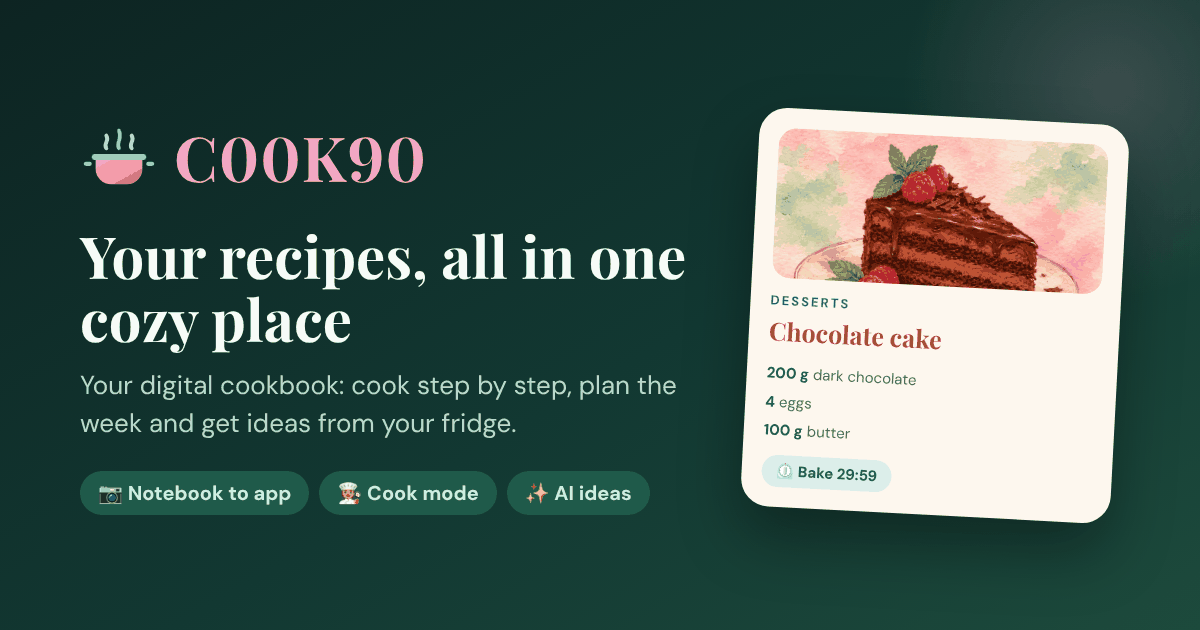
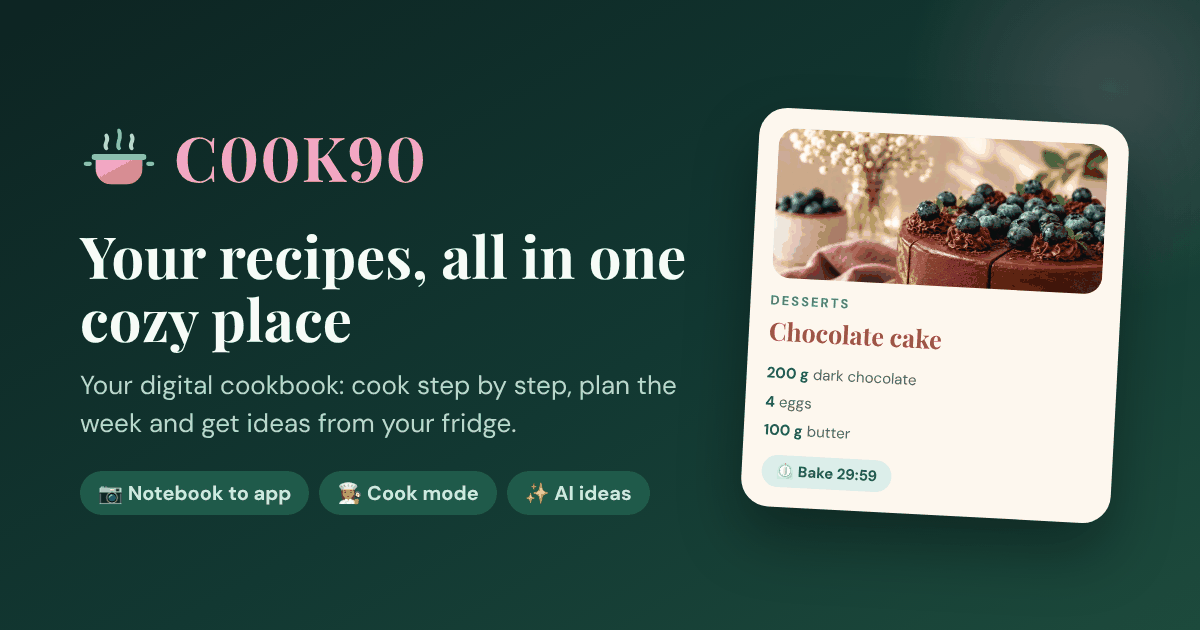
Example recipe: blueberry cake photo, also for cooks who already have it

Changed region(s): [[0.6475, 0.181, 0.925, 0.4825], [0.0617, 0.2413, 0.1233, 0.3016], [0.2775, 0.754, 0.3083, 0.8143]]

diff --git a/frontend/src/app/recipes/domain/example-recipe.ts b/frontend/src/app/recipes/domain/example-recipe.ts
@@ -38,7 +38,7 @@ const TEXT: Record<Language, ExampleText> = {
       'sugar',
       'flour',
       'a pinch of salt',
-      'raspberries',
+      'blueberries',
     ],
     steps: [
       'Heat the oven to 180°C and line a 22 cm cake tin with baking paper.',
@@ -46,10 +46,10 @@ const TEXT: Record<Language, ExampleText> = {
       'Whisk the eggs with the sugar for 3 minutes, until pale and fluffy.',
       'Fold in the melted chocolate, then the flour and salt, just until smooth.',
       'Pour into the tin and bake for 30 minutes: the middle should still wobble a little.',
-      'Let it cool for 15 minutes, then top with raspberries and serve.',
+      'Let it cool for 15 minutes, then top with blueberries and serve.',
     ],
     tip: 'Take it out while the middle still wobbles: it sets as it cools and stays fudgy.',
-    extras: ['raspberries, for freshness', 'whipped cream or vanilla ice cream'],
+    extras: ['blueberries, for freshness', 'whipped cream or vanilla ice cream'],
     pairing: 'An espresso or a glass of cold milk.',
   },
   ro: {
@@ -63,7 +63,7 @@ const TEXT: Record<Language, ExampleText> = {
       'zahăr',
       'făină',
       'un vârf de cuțit de sare',
-      'zmeură',
+      'afine',
     ],
     steps: [
       'Încinge cuptorul la 180°C și tapetează o tavă rotundă de 22 cm cu hârtie de copt.',
@@ -71,10 +71,10 @@ const TEXT: Record<Language, ExampleText> = {
       'Bate ouăle cu zahărul 3 minute, până devin deschise la culoare și pufoase.',
       'Încorporează ciocolata topită, apoi făina și sarea, doar până se omogenizează.',
       'Toarnă compoziția în tavă și coace 30 de minute: mijlocul trebuie să mai tremure puțin.',
-      'Lasă tortul să se răcească 15 minute, apoi pune zmeura deasupra și servește.',
+      'Lasă tortul să se răcească 15 minute, apoi pune afinele deasupra și servește.',
     ],
     tip: 'Scoate-l când mijlocul încă tremură: se întărește cât se răcește și rămâne umed.',
-    extras: ['zmeură, pentru prospețime', 'frișcă sau înghețată de vanilie'],
+    extras: ['afine, pentru prospețime', 'frișcă sau înghețată de vanilie'],
     pairing: 'Un espresso sau un pahar cu lapte rece.',
   },
   es: {
@@ -88,7 +88,7 @@ const TEXT: Record<Language, ExampleText> = {
       'azúcar',
       'harina',
       'una pizca de sal',
-      'frambuesas',
+      'arándanos',
     ],
     steps: [
       'Precalienta el horno a 180°C y forra un molde de 22 cm con papel de horno.',
@@ -96,10 +96,10 @@ const TEXT: Record<Language, ExampleText> = {
       'Bate los huevos con el azúcar durante 3 minutos, hasta que estén claros y esponjosos.',
       'Incorpora el chocolate derretido y después la harina y la sal, solo hasta que quede liso.',
       'Vierte en el molde y hornea 30 minutos: el centro debe temblar un poco.',
-      'Deja enfriar 15 minutos, cubre con frambuesas y sirve.',
+      'Deja enfriar 15 minutos, cubre con arándanos y sirve.',
     ],
     tip: 'Sácala cuando el centro aún tiemble: cuaja al enfriarse y queda jugosa.',
-    extras: ['frambuesas, para dar frescura', 'nata montada o helado de vainilla'],
+    extras: ['arándanos, para dar frescura', 'nata montada o helado de vainilla'],
     pairing: 'Un espresso o un vaso de leche fría.',
   },
   fr: {
@@ -113,7 +113,7 @@ const TEXT: Record<Language, ExampleText> = {
       'sucre',
       'farine',
       'une pincée de sel',
-      'framboises',
+      'myrtilles',
     ],
     steps: [
       'Préchauffez le four à 180°C et chemisez un moule de 22 cm de papier cuisson.',
@@ -121,10 +121,10 @@ const TEXT: Record<Language, ExampleText> = {
       'Fouettez les œufs avec le sucre pendant 3 minutes, jusqu’à ce qu’ils blanchissent.',
       'Incorporez le chocolat fondu, puis la farine et le sel, juste jusqu’à ce que ce soit lisse.',
       'Versez dans le moule et faites cuire 30 minutes : le centre doit encore trembler un peu.',
-      'Laissez refroidir 15 minutes, ajoutez les framboises et servez.',
+      'Laissez refroidir 15 minutes, ajoutez les myrtilles et servez.',
     ],
     tip: 'Sortez-le quand le centre tremble encore : il prend en refroidissant et reste fondant.',
-    extras: ['framboises, pour la fraîcheur', 'crème fouettée ou glace vanille'],
+    extras: ['myrtilles, pour la fraîcheur', 'crème fouettée ou glace vanille'],
     pairing: 'Un espresso ou un verre de lait froid.',
   },
   it: {
@@ -138,7 +138,7 @@ const TEXT: Record<Language, ExampleText> = {
       'zucchero',
       'farina',
       'un pizzico di sale',
-      'lamponi',
+      'mirtilli',
     ],
     steps: [
       'Scalda il forno a 180°C e fodera una tortiera da 22 cm con carta da forno.',
@@ -146,10 +146,10 @@ const TEXT: Record<Language, ExampleText> = {
       'Monta le uova con lo zucchero per 3 minuti, finché sono chiare e spumose.',
       'Incorpora il cioccolato fuso, poi la farina e il sale, solo finché è liscio.',
       'Versa nella tortiera e cuoci per 30 minuti: il centro deve ancora tremare un po’.',
-      'Lascia raffreddare 15 minuti, poi decora con i lamponi e servi.',
+      'Lascia raffreddare 15 minuti, poi decora con i mirtilli e servi.',
     ],
     tip: 'Sfornala quando il centro trema ancora: si rassoda raffreddandosi e resta morbida.',
-    extras: ['lamponi, per freschezza', 'panna montata o gelato alla vaniglia'],
+    extras: ['mirtilli, per freschezza', 'panna montata o gelato alla vaniglia'],
     pairing: 'Un espresso o un bicchiere di latte freddo.',
   },
   de: {
@@ -163,7 +163,7 @@ const TEXT: Record<Language, ExampleText> = {
       'Zucker',
       'Mehl',
       'eine Prise Salz',
-      'Himbeeren',
+      'Heidelbeeren',
     ],
     steps: [
       'Den Ofen auf 180°C vorheizen und eine 22-cm-Form mit Backpapier auslegen.',
@@ -171,10 +171,10 @@ const TEXT: Record<Language, ExampleText> = {
       'Die Eier mit dem Zucker 3 Minuten hell und schaumig schlagen.',
       'Die geschmolzene Schokolade unterheben, dann Mehl und Salz, nur bis alles glatt ist.',
       'In die Form füllen und 30 Minuten backen: Die Mitte darf noch leicht wackeln.',
-      'Die Torte 15 Minuten abkühlen lassen, mit Himbeeren belegen und servieren.',
+      'Die Torte 15 Minuten abkühlen lassen, mit Heidelbeeren belegen und servieren.',
     ],
     tip: 'Herausnehmen, solange die Mitte noch wackelt: Beim Abkühlen wird sie fest und bleibt saftig.',
-    extras: ['Himbeeren, für Frische', 'Schlagsahne oder Vanilleeis'],
+    extras: ['Heidelbeeren, für Frische', 'Schlagsahne oder Vanilleeis'],
     pairing: 'Ein Espresso oder ein Glas kalte Milch.',
   },
 };
@@ -211,5 +211,25 @@ export function exampleRecipe(language: Language, source: string): RecipeFormVal
   };
 }
 
-/** The photo of the example recipe (the same watercolor as on the landing page). */
-export const EXAMPLE_PHOTO_URL = 'landing-dish.png';
+/** The photo of the example recipe (the same as on the landing page). */
+export const EXAMPLE_PHOTO_URL = 'landing-dish.jpg';
+
+/** 2: the real photo and blueberries (1 was the watercolor with raspberries). */
+export const EXAMPLE_VERSION = 2;
+
+/** Raspberries → blueberries, in every language, for example recipes added before version 2. */
+const BERRIES: readonly [RegExp, string][] = [
+  [/raspberries/g, 'blueberries'],
+  [/Raspberries/g, 'Blueberries'],
+  [/zmeura/g, 'afinele'],
+  [/zmeură/g, 'afine'],
+  [/Zmeură/g, 'Afine'],
+  [/frambuesas/g, 'arándanos'],
+  [/framboises/g, 'myrtilles'],
+  [/lamponi/g, 'mirtilli'],
+  [/Himbeeren/g, 'Heidelbeeren'],
+];
+
+export function toBlueberries(text: string): string {
+  return BERRIES.reduce((result, [from, to]) => result.replace(from, to), text);
+}

diff --git a/frontend/src/app/recipes/data/recipe.store.ts b/frontend/src/app/recipes/data/recipe.store.ts
@@ -12,6 +12,7 @@ import {
   matchesIngredients,
   withinTime,
 } from '../domain/filters';
+import { EXAMPLE_VERSION, toBlueberries } from '../domain/example-recipe';
 import { formToRecipeData } from '../domain/recipe-form';
 import { recipeStoragePaths } from '../domain/recipe-images';
 import { matchesSearch } from '../domain/search';
@@ -278,9 +279,34 @@ export class RecipeStore {
   async addExample(value: RecipeFormValue, photo: Blob | null): Promise<void> {
     const userId = this.auth.requireUser().uid;
     const images = photo ? [await this.photos.upload(userId, photo)] : [];
-    const data: RecipeData = { ...formToRecipeData(value, userId, images, null), example: true };
+    const data: RecipeData = {
+      ...formToRecipeData(value, userId, images, null),
+      example: true,
+      exampleVersion: EXAMPLE_VERSION,
+    };
     const id = await this.repository.create(data);
     this.mine.update((list) => [{ ...data, id }, ...list]);
+  }
+
+  /**
+   * Brings an example recipe added earlier up to date: the new photo, and blueberries instead of
+   * raspberries (only those words change, so the cook's own edits stay). Throws if it fails.
+   */
+  async upgradeExample(recipe: Recipe, photo: Blob | null): Promise<void> {
+    const userId = this.auth.requireUser().uid;
+    const changes: Partial<RecipeData> = {
+      exampleVersion: EXAMPLE_VERSION,
+      ingredients: (recipe.ingredients ?? []).map((i) => ({ ...i, name: toBlueberries(i.name) })),
+      steps: (recipe.steps ?? []).map(toBlueberries),
+      extras: (recipe.extras ?? []).map(toBlueberries),
+    };
+    if (photo) {
+      const image = await this.photos.upload(userId, photo);
+      Object.assign(changes, { images: [image], imageUrl: image.url, imagePath: image.path });
+    }
+    await this.repository.update(recipe.id, changes);
+    this.patchMine(recipe.id, changes);
+    if (photo) this.photos.deleteInBackground(recipeStoragePaths(recipe));
   }
 
   async delete(recipe: Recipe): Promise<boolean> {

diff --git a/frontend/src/app/recipes/data/example-recipe.service.ts b/frontend/src/app/recipes/data/example-recipe.service.ts
@@ -3,7 +3,7 @@ import { doc, getDoc, setDoc } from 'firebase/firestore';
 import { AuthService } from '../../core/auth/auth.service';
 import { FIRESTORE } from '../../core/firebase/firestore.token';
 import { I18nService } from '../../core/i18n/i18n.service';
-import { EXAMPLE_PHOTO_URL, exampleRecipe } from '../domain/example-recipe';
+import { EXAMPLE_PHOTO_URL, EXAMPLE_VERSION, exampleRecipe } from '../domain/example-recipe';
 import { RecipeStore } from './recipe.store';
 
 /**
@@ -29,8 +29,23 @@ export class ExampleRecipeService {
     });
   }
 
+  /** Example recipes added before the latest version get the new photo and blueberries. */
+  private async upgradeOld(): Promise<void> {
+    const old = this.store
+      .myRecipes()
+      .filter((r) => r.example && (r.exampleVersion ?? 1) < EXAMPLE_VERSION);
+    if (!old.length) return;
+    try {
+      const photo = await loadPhoto();
+      for (const recipe of old) await this.store.upgradeExample(recipe, photo);
+    } catch (error) {
+      console.error('Could not update the example recipe', error);
+    }
+  }
+
   private async addOnce(userId: string): Promise<void> {
     const profile = doc(this.db, 'profiles', userId);
+    await this.upgradeOld();
     try {
       if ((await getDoc(profile)).data()?.['exampleAdded']) return;
       if (!this.store.myRecipes().length) {

diff --git a/frontend/src/app/recipes/domain/example-recipe.spec.ts b/frontend/src/app/recipes/domain/example-recipe.spec.ts
@@ -1,5 +1,5 @@
 import { stepDurations } from './step-timers';
-import { exampleRecipe } from './example-recipe';
+import { exampleRecipe, toBlueberries } from './example-recipe';
 
 describe('exampleRecipe', () => {
   it('is complete in every language', () => {
@@ -20,5 +20,16 @@ describe('exampleRecipe', () => {
     expect(cake.diets.vegetarian).toBe(true);
     expect(cake.allergens.gluten && cake.allergens.eggs && cake.allergens.milk).toBe(true);
     expect(cake.allergens.nuts).toBe(false);
+  });
+});
+
+describe('toBlueberries', () => {
+  it('changes raspberries to blueberries in every language', () => {
+    expect(toBlueberries('Top with raspberries and serve.')).toBe(
+      'Top with blueberries and serve.',
+    );
+    expect(toBlueberries('apoi pune zmeura deasupra')).toBe('apoi pune afinele deasupra');
+    expect(toBlueberries('zmeură, pentru prospețime')).toBe('afine, pentru prospețime');
+    expect(toBlueberries('mit Himbeeren belegen')).toBe('mit Heidelbeeren belegen');
   });
 });

diff --git a/frontend/src/app/recipes/models/recipe.model.ts b/frontend/src/app/recipes/models/recipe.model.ts
@@ -72,6 +72,8 @@ export interface RecipeData {
   extras?: string[];
   /** The example recipe a new cookbook starts with (shows an "Example" label). */
   example?: boolean;
+  /** Which version of the example recipe it is (2 = the photo with blueberries). */
+  exampleVersion?: number;
   /** One cook's tip. */
   tip?: string;
   /** The author's YouTube video of the recipe, as `https://www.youtube.com/watch?v=…`. */

diff --git a/frontend/src/app/auth/login-page.ts b/frontend/src/app/auth/login-page.ts
@@ -40,7 +40,7 @@ export class LoginPage {
 
   protected readonly features = FEATURES;
   protected readonly signingIn = signal(false);
-  /** The preview dish photo (public/landing-dish.png); an emoji if it is missing. */
+  /** The preview dish photo (public/landing-dish.jpg); an emoji if it is missing. */
   protected readonly photoOk = signal(true);
   protected readonly error = signal('');
 

diff --git a/frontend/src/app/auth/login-page.html b/frontend/src/app/auth/login-page.html
@@ -13,7 +13,7 @@
       <div class="preview-card">
         <div class="preview-photo">
           @if (photoOk()) {
-            <img src="landing-dish.png" alt="" (error)="photoOk.set(false)" />
+            <img src="landing-dish.jpg" alt="" (error)="photoOk.set(false)" />
           } @else {
             🍰
           }
